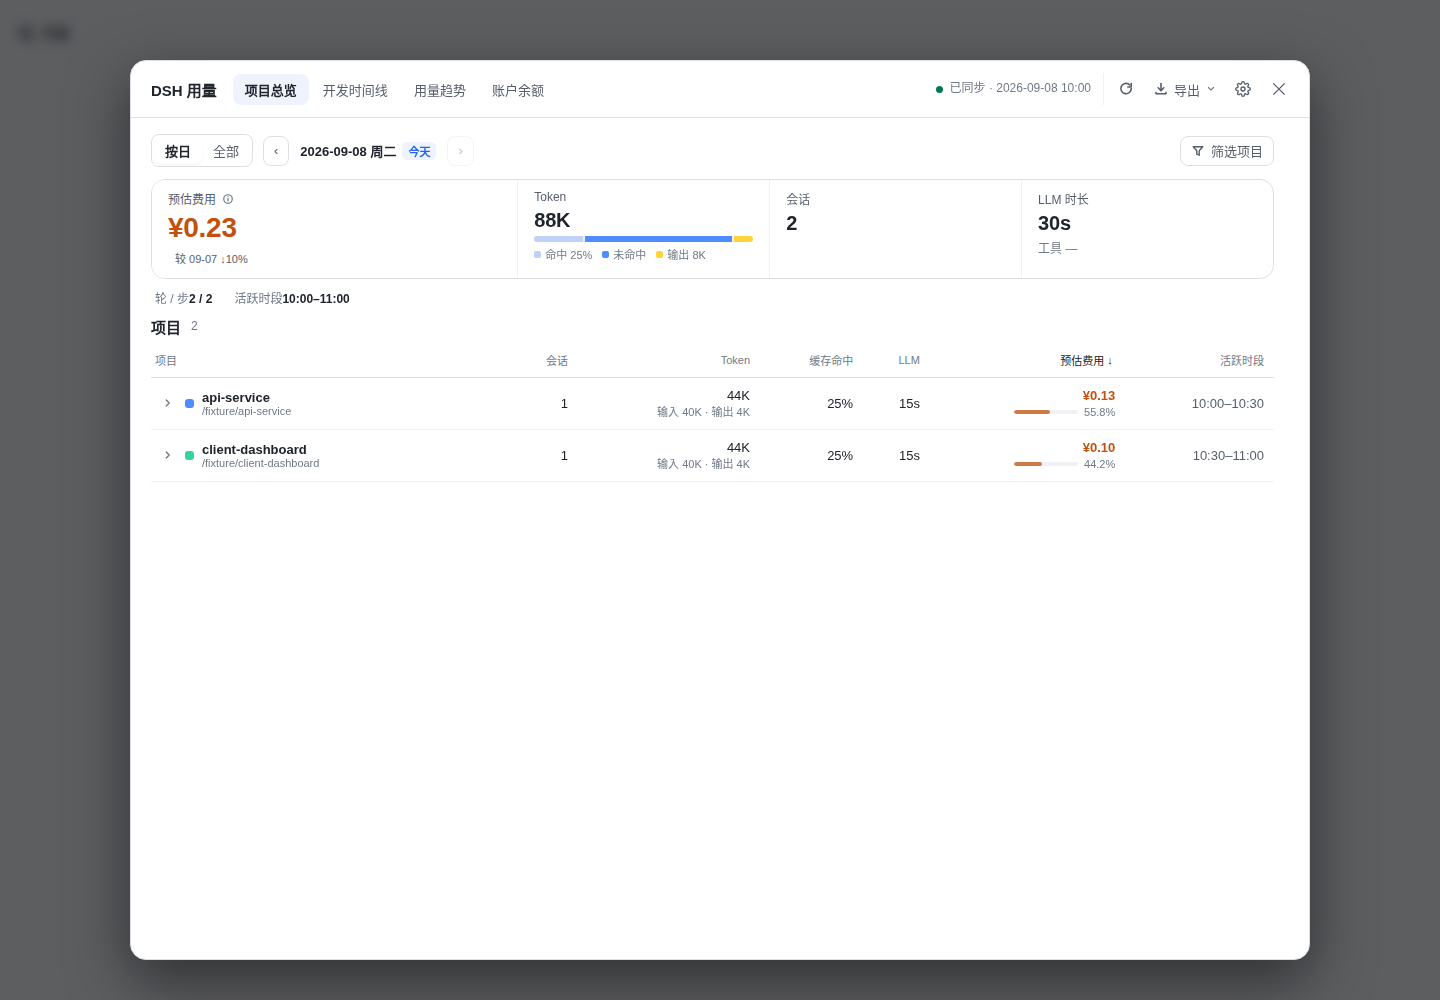
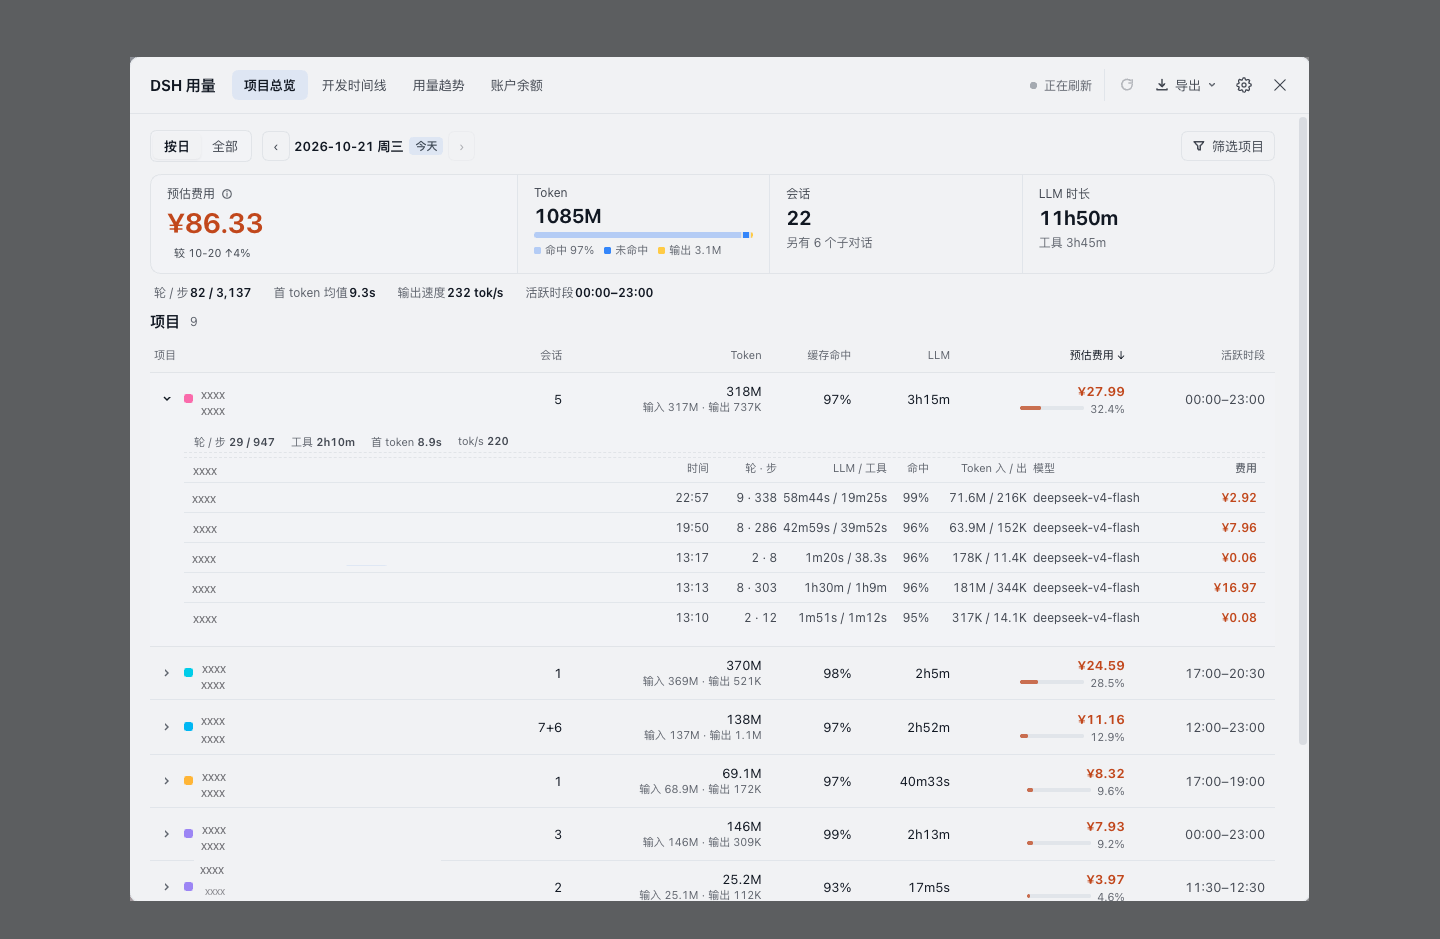
docs(readme): use real desktop screenshots with masked identifiers
Replace the overview, timeline, timeline-all, trends and pricing-drawer
screenshots with captures from the desktop app (light theme). Project names,
paths, session titles, account names/IDs and amounts are masked as xxxx; the
overview expands the first project.

The balance page keeps its isolated-fixture demo image. README captions and the
screenshot note now say which images are real and which are demo.

diff --git a/README.en.md b/README.en.md
@@ -20,10 +20,10 @@ The UI brand is **DSH Usage**; the install package is still **`@rongyi7/dsh-stat
 <p align="center">
   <a href="https://github.com/rongyishuaige7/dsh-stats/blob/main/docs/images/overview.png"><img src="https://raw.githubusercontent.com/rongyishuaige7/dsh-stats/main/docs/images/hero-overview.png" alt="Light-mode overview with estimated cost, token composition and the project table" width="100%"></a>
   <br>
-  <sub>Light mode · demo data from an isolated fixture · click for the full overview</sub>
+  <sub>Light mode · real desktop data with sensitive values masked · click for the full overview</sub>
 </p>
 
-> Screenshots come from isolated test fixtures: project names, paths and session identifiers are fictional, and balances and quotas are demo values. They contain no API keys, cookies, management tokens or session content. Costs are derived from public prices; the provider's bill remains authoritative.
+> Except for the account balance page, screenshots come from the desktop app; project names, paths, session titles, account names and amounts are masked as xxxx. The balance page still uses isolated fixture demo data. They contain no API keys, cookies, management tokens or session content. Costs are derived from public prices; the provider's bill remains authoritative.
 
 ## 📦 Installation
 
@@ -71,7 +71,7 @@ Keyboard: `Tab` cycles inside the panel; `Esc` closes the filter, menu and prici
 Usage and estimated cost by project: sort by any column, expand a project for turns/steps, tool time, first token, tok/s and session details, and search or hide projects in the top-right. Hidden projects are excluded from metrics and trends. Projects page 50 at a time and sessions 100 at a time; paging never changes the top summary.
 
 <p align="center">
-  <a href="https://github.com/rongyishuaige7/dsh-stats/blob/main/docs/images/overview.png"><img src="https://raw.githubusercontent.com/rongyishuaige7/dsh-stats/main/docs/images/overview.png" alt="Overview with summary metrics and the project table (demo data)" width="100%"></a>
+  <a href="https://github.com/rongyishuaige7/dsh-stats/blob/main/docs/images/overview.png"><img src="https://raw.githubusercontent.com/rongyishuaige7/dsh-stats/main/docs/images/overview.png" alt="Overview with summary metrics and the project table (real data, sensitive values masked)" width="100%"></a>
 </p>
 
 ### Timeline
@@ -79,10 +79,10 @@ Usage and estimated cost by project: sort by any column, expand a project for tu
 The day view arranges projects as lanes above half-hour cost or token bars; click a segment or bar for that half hour, or expand a lane to open its sessions. The all view is a calendar matrix, 30 days per page; click a cell to open that day.
 
 <p align="center">
-  <a href="https://github.com/rongyishuaige7/dsh-stats/blob/main/docs/images/timeline.png"><img src="https://raw.githubusercontent.com/rongyishuaige7/dsh-stats/main/docs/images/timeline.png" alt="Timeline day view (demo data)" width="100%"></a>
+  <a href="https://github.com/rongyishuaige7/dsh-stats/blob/main/docs/images/timeline.png"><img src="https://raw.githubusercontent.com/rongyishuaige7/dsh-stats/main/docs/images/timeline.png" alt="Timeline day view (real data, sensitive values masked)" width="100%"></a>
 </p>
 <p align="center">
-  <a href="https://github.com/rongyishuaige7/dsh-stats/blob/main/docs/images/timeline-all.png"><img src="https://raw.githubusercontent.com/rongyishuaige7/dsh-stats/main/docs/images/timeline-all.png" alt="Timeline all view as a calendar matrix (demo data)" width="100%"></a>
+  <a href="https://github.com/rongyishuaige7/dsh-stats/blob/main/docs/images/timeline-all.png"><img src="https://raw.githubusercontent.com/rongyishuaige7/dsh-stats/main/docs/images/timeline-all.png" alt="Timeline all view as a calendar matrix (real data, sensitive values masked)" width="100%"></a>
 </p>
 
 ### Usage trends
@@ -90,7 +90,7 @@ The day view arranges projects as lanes above half-hour cost or token bars; clic
 Ranges are the last 7, 30 or 90 days, and the metric switches between cost and tokens. The summary strip gives the range total, daily average and top model; daily bars follow, then a fixed 26-week activity heatmap, and a model share table for the current metric. Clicking a bar or heat cell opens that day in the overview.
 
 <p align="center">
-  <a href="https://github.com/rongyishuaige7/dsh-stats/blob/main/docs/images/trends.png"><img src="https://raw.githubusercontent.com/rongyishuaige7/dsh-stats/main/docs/images/trends.png" alt="Usage trends, activity heatmap and model shares (demo data)" width="100%"></a>
+  <a href="https://github.com/rongyishuaige7/dsh-stats/blob/main/docs/images/trends.png"><img src="https://raw.githubusercontent.com/rongyishuaige7/dsh-stats/main/docs/images/trends.png" alt="Usage trends, activity heatmap and model shares (real data, sensitive values masked)" width="100%"></a>
 </p>
 
 ### Account balance
@@ -106,7 +106,7 @@ Every connected account appears in one list, ordered by urgency: exhausted or ne
 The gear icon opens the pricing settings drawer with three fixed sections: models, custom rules, and updates & versions. Search models and inspect current and historical rules; fill in a custom rule, preview its impact, then save; manage automatic updates, pinned versions and catalog snapshots.
 
 <p align="center">
-  <a href="https://github.com/rongyishuaige7/dsh-stats/blob/main/docs/images/prices-drawer.png"><img src="https://raw.githubusercontent.com/rongyishuaige7/dsh-stats/main/docs/images/prices-drawer.png" alt="Pricing settings drawer with models, custom rules and updates (demo data)" width="100%"></a>
+  <a href="https://github.com/rongyishuaige7/dsh-stats/blob/main/docs/images/prices-drawer.png"><img src="https://raw.githubusercontent.com/rongyishuaige7/dsh-stats/main/docs/images/prices-drawer.png" alt="Pricing settings drawer with models, custom rules and updates (real data, sensitive values masked)" width="100%"></a>
 </p>
 
 ## 💰 Data and cost
